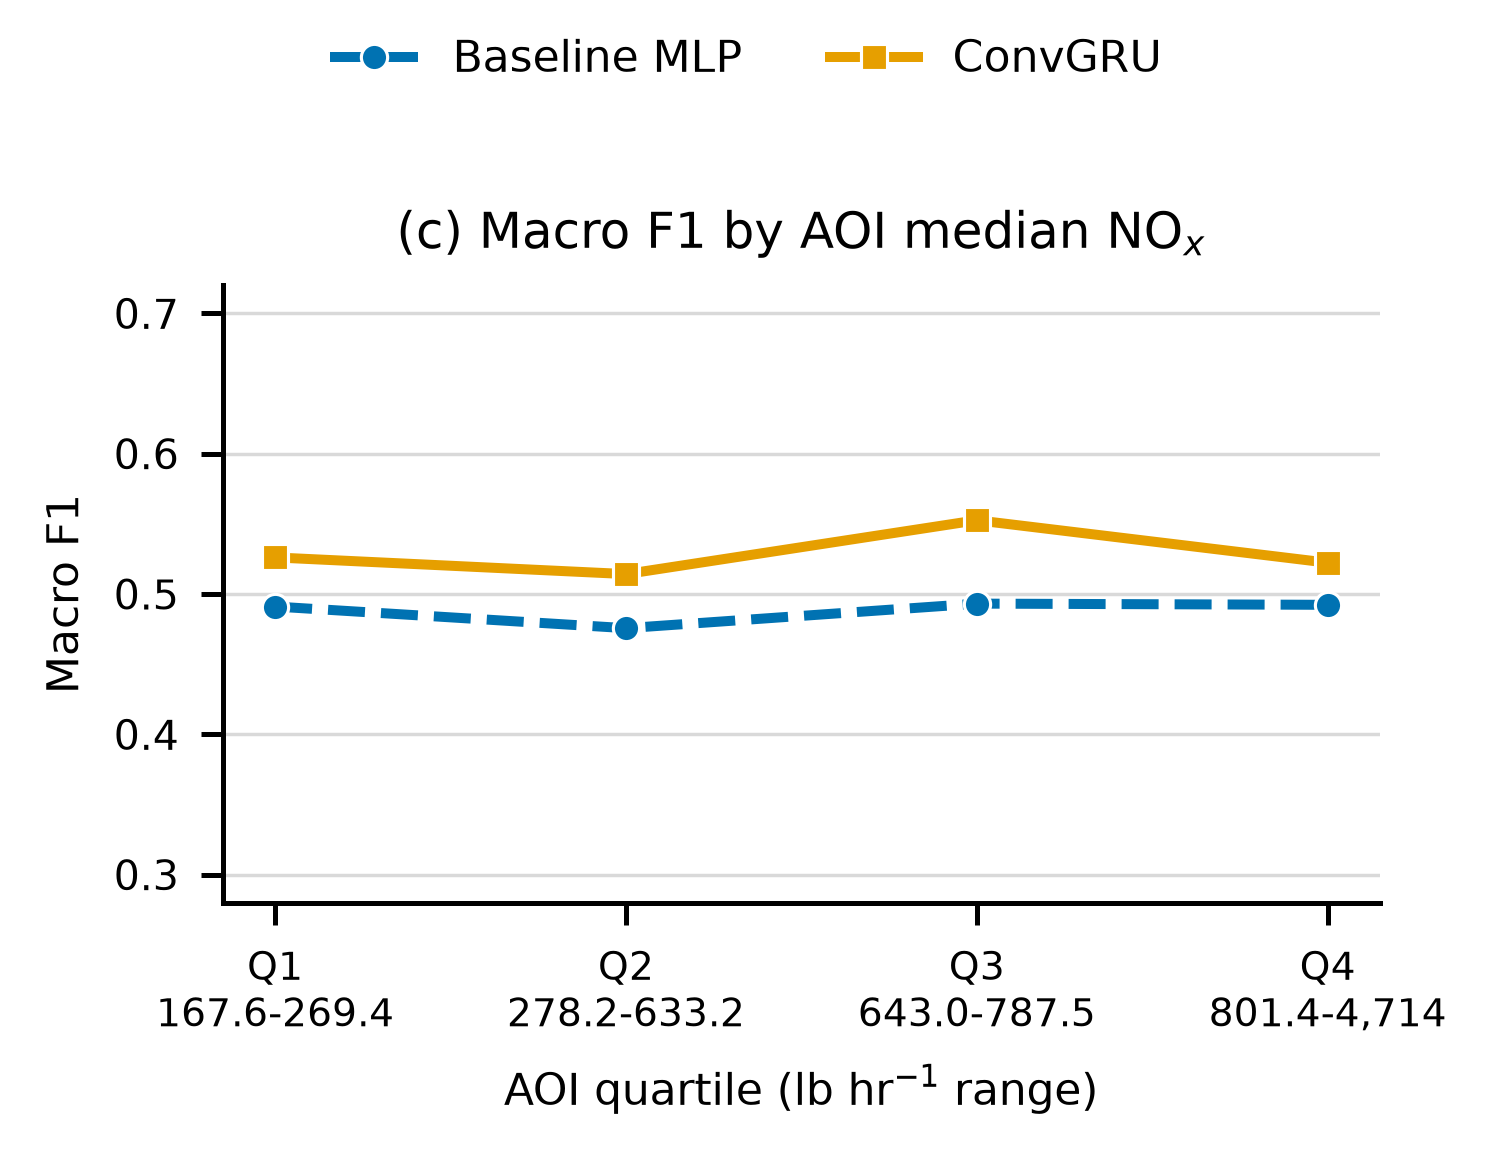
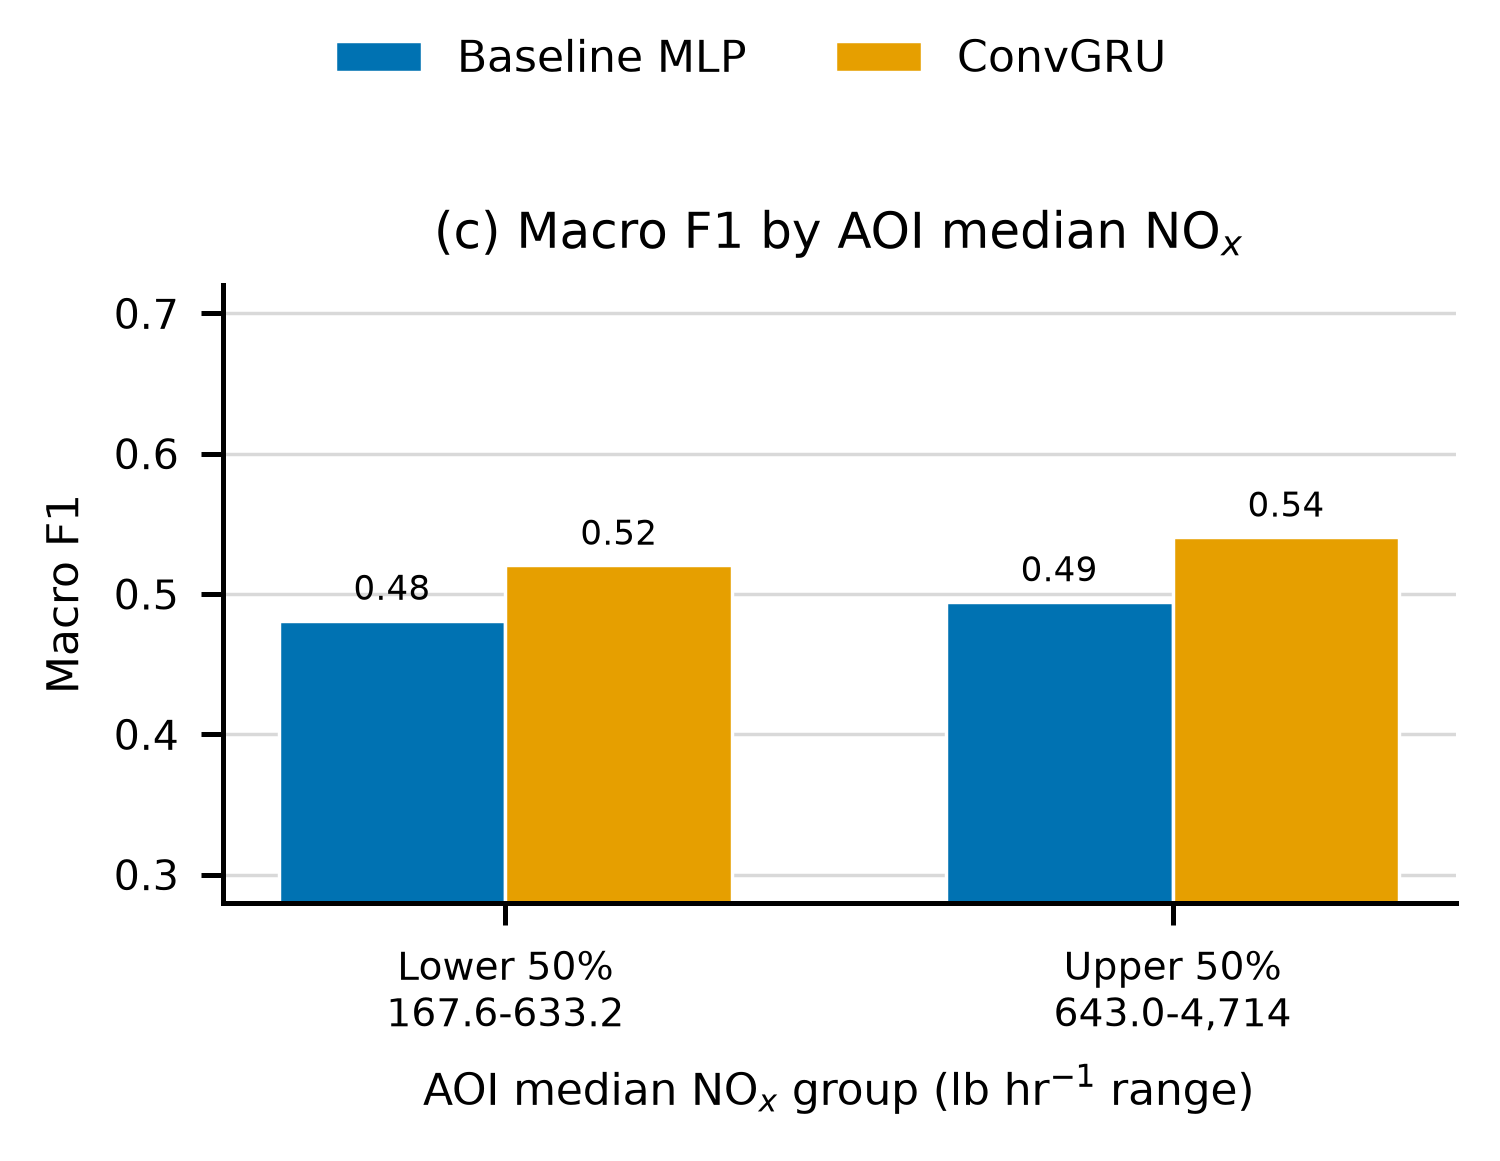
Compare model performance across AOI NOx halves

diff --git a/scripts/visuals/plot_stratified_performance.py b/scripts/visuals/plot_stratified_performance.py
@@ -47,7 +47,7 @@ PREDICTION_COLUMNS = (
 )
 
 CLASS_LABELS = np.arange(3)
-QUARTILE_NAMES = ("Q1", "Q2", "Q3", "Q4")
+AOI_HALF_NAMES = ("Lower 50%", "Upper 50%")
 Y_LIMITS = (0.28, 0.72)
 Y_TICKS = np.arange(0.3, 0.71, 0.1)
 DEGREES_PER_SOLAR_HOUR = 15.0
@@ -112,22 +112,22 @@ def _format_boundary(value: float) -> str:
     return f"{value:.1f}"
 
 
-def _quartile_scores(
+def _aoi_half_scores(
     frames: dict[str, pd.DataFrame],
     values: pd.Series,
 ) -> tuple[list[str], dict[str, np.ndarray]]:
-    # Form AOI-balanced quartiles and score their associated records
+    # Split AOIs at the median and score their associated records
     percentiles = values.rank(method="average", pct=True)
     strata = pd.cut(
         percentiles,
-        bins=(0.0, 0.25, 0.5, 0.75, 1.0),
-        labels=QUARTILE_NAMES,
+        bins=(0.0, 0.5, 1.0),
+        labels=AOI_HALF_NAMES,
         include_lowest=True,
     )
     reference = frames[MODEL_NAMES[0]]
     tick_labels: list[str] = []
     scores = {model_name: [] for model_name in MODEL_NAMES}
-    for stratum_name in QUARTILE_NAMES:
+    for stratum_name in AOI_HALF_NAMES:
         aoi_ids = values.index[strata == stratum_name]
         mask = reference["aoi_id"].isin(aoi_ids)
         lower = _format_boundary(float(values.loc[aoi_ids].min()))
@@ -354,16 +354,10 @@ def main() -> None:
             "Midpoint local solar hour",
             "Accuracy",
         ),
-        (
-            *_quartile_scores(frames, aoi["aoi_score"]),
-            r"(c) Macro F1 by AOI median NO$_x$",
-            r"AOI quartile (lb hr$^{-1}$ range)",
-            "Macro F1",
-        ),
     )
 
     OUTPUT_DIR.mkdir(parents=True, exist_ok=True)
-    for output_stem, (tick_labels, scores, title, x_label, y_label) in zip(OUTPUT_STEMS[:3], panels, strict=True):
+    for output_stem, (tick_labels, scores, title, x_label, y_label) in zip(OUTPUT_STEMS[:2], panels, strict=True):
         figure, axis = plt.subplots(figsize=PANEL_FIGURE_SIZE)
         _plot_panel(
             axis,
@@ -374,6 +368,18 @@ def main() -> None:
             y_label=y_label,
         )
         _save_panel(figure, axis, output_stem)
+
+    aoi_labels, aoi_scores = _aoi_half_scores(frames, aoi["aoi_score"])
+    figure, axis = plt.subplots(figsize=PANEL_FIGURE_SIZE)
+    _plot_bar_panel(
+        axis,
+        aoi_labels,
+        aoi_scores,
+        title=r"(c) Macro F1 by AOI median NO$_x$",
+        x_label=r"AOI median NO$_x$ group (lb hr$^{-1}$ range)",
+        y_label="Macro F1",
+    )
+    _save_panel(figure, axis, OUTPUT_STEMS[2])
 
     region_labels, region_scores = _census_region_scores(frames, aoi.index)
     figure, axis = plt.subplots(figsize=PANEL_FIGURE_SIZE)
